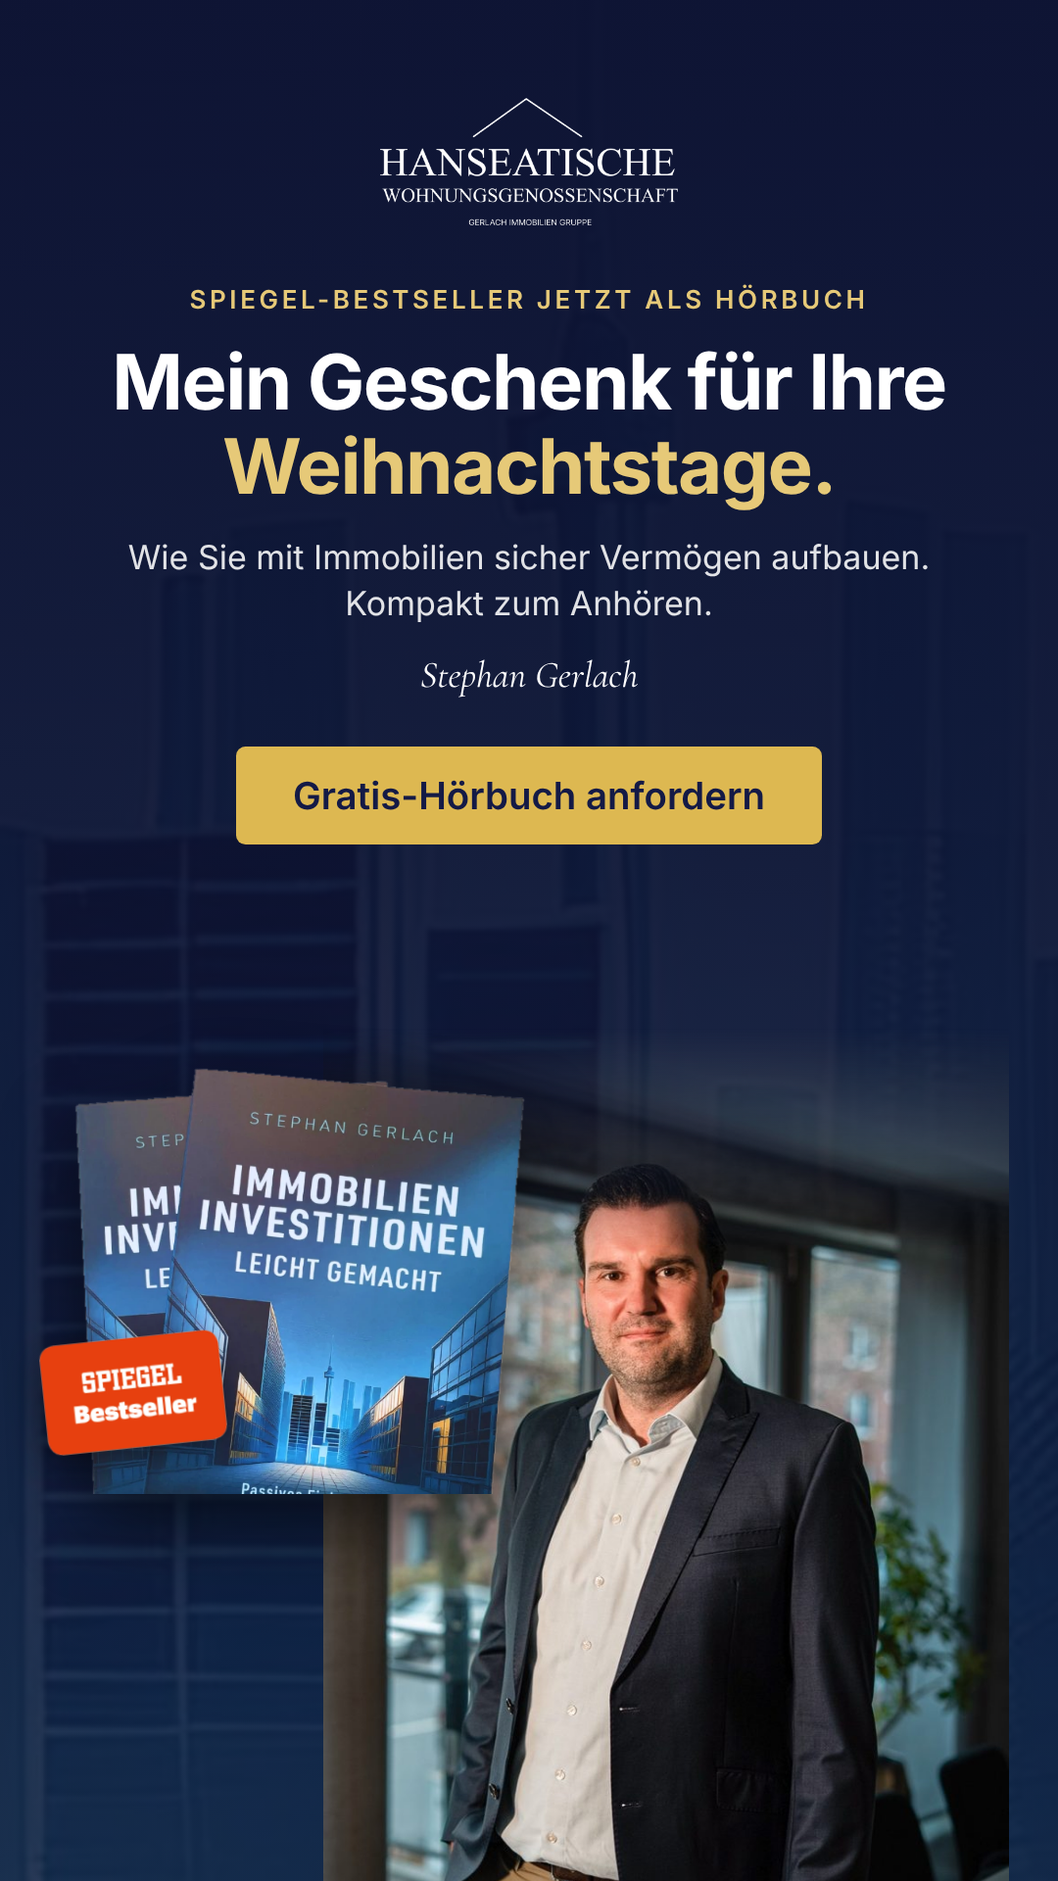
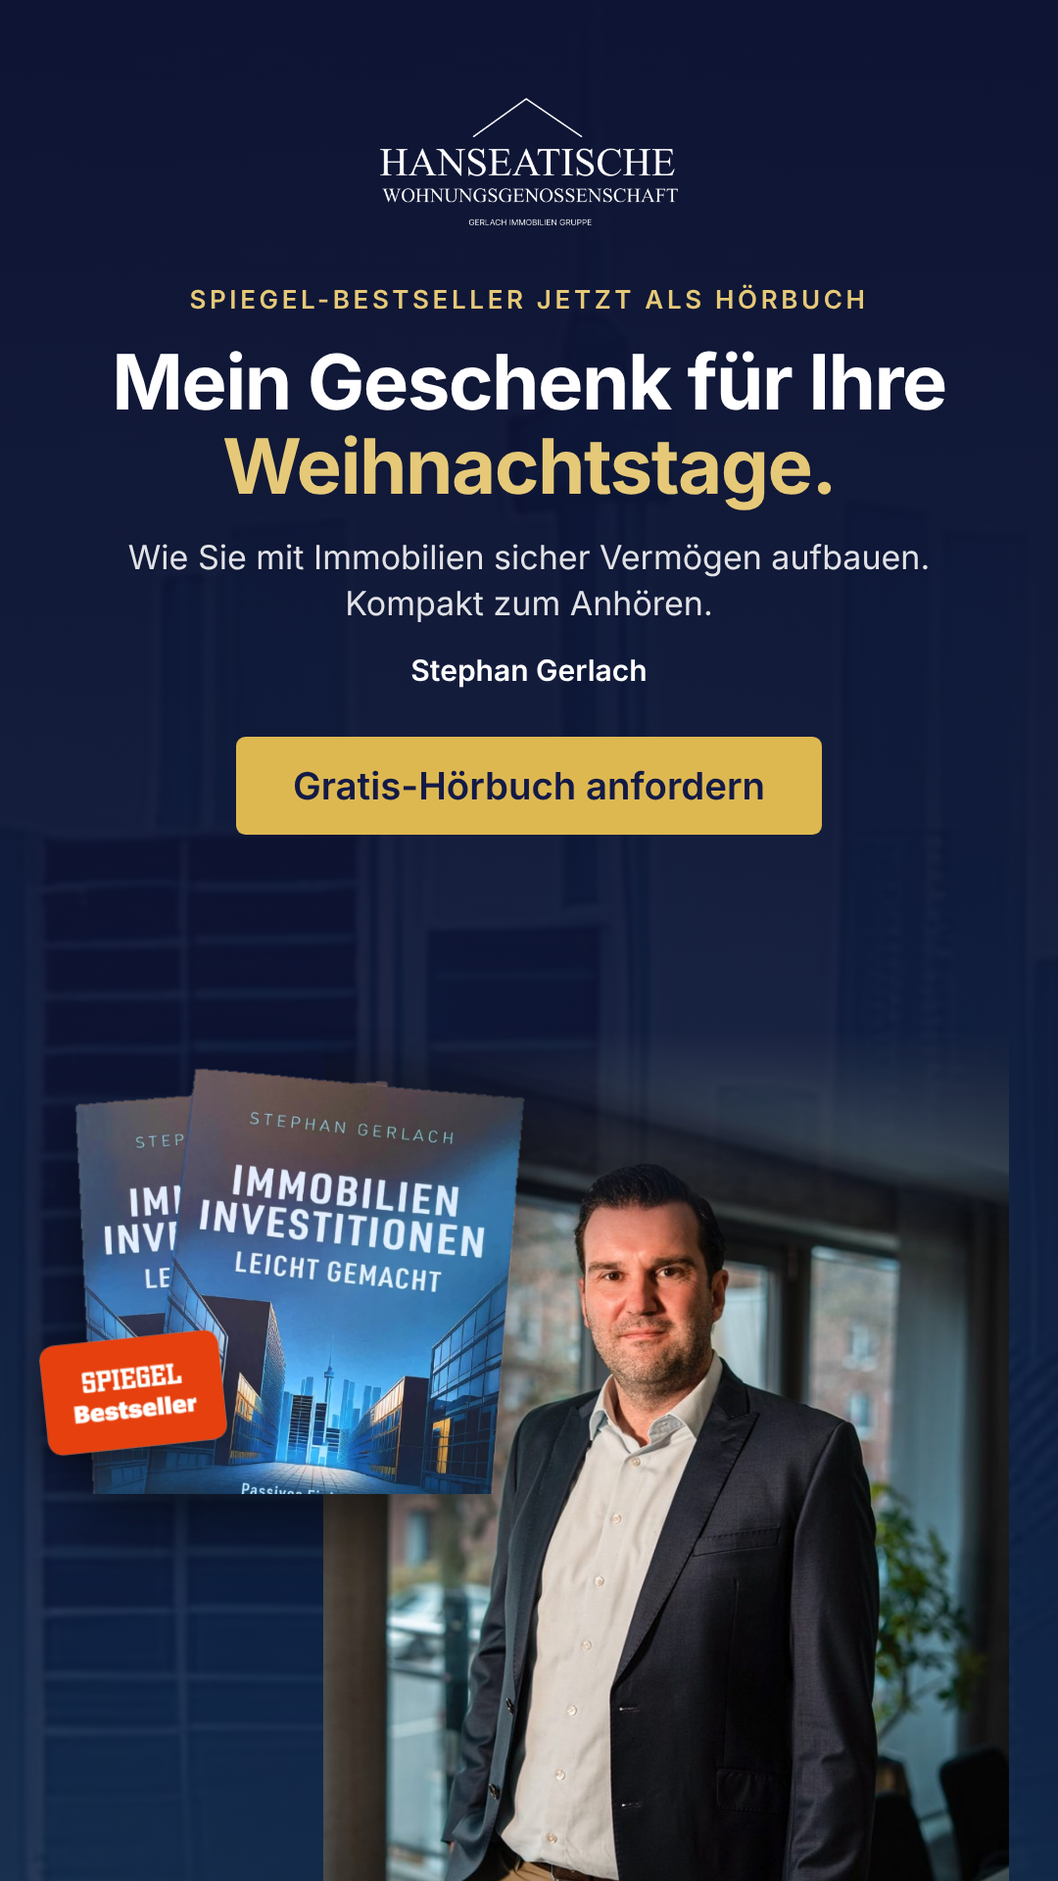
Hörbuch campaign: Inter everywhere
Numbers, the author quote, step counters, FAQ markers, the footer claim, the
0 € coin and Stephan's name in the ads now use Inter too; Cormorant is no
longer loaded.

Claude-Session: https://claude.ai/code/session_01MwbuZMrrPYKRN76czVZSnJ

Changed region(s): [[0.2139, 0.3438, 0.7639, 0.4688]]

diff --git a/sites/hwg-landing/hoerbuch-weihnachten/assets/campaign.css b/sites/hwg-landing/hoerbuch-weihnachten/assets/campaign.css
@@ -3,9 +3,6 @@
    so the page loads nothing from Google. */
 
 @font-face { font-family: "Inter"; src: url("inter-latin-wght-normal.woff2") format("woff2"); font-weight: 100 900; font-display: swap; }
-@font-face { font-family: "Cormorant Garamond"; src: url("cormorant-garamond-latin-500-normal.woff2") format("woff2"); font-weight: 500; font-display: swap; }
-@font-face { font-family: "Cormorant Garamond"; src: url("cormorant-garamond-latin-600-normal.woff2") format("woff2"); font-weight: 600; font-display: swap; }
-@font-face { font-family: "Cormorant Garamond"; src: url("cormorant-garamond-latin-500-italic.woff2") format("woff2"); font-weight: 500; font-style: italic; font-display: swap; }
 
 :root {
   --ink: #141a46;
@@ -26,7 +23,6 @@
   --line: #d2d4da;
   --white: #fff;
   --radius: 8px;
-  --serif: "Cormorant Garamond", "Times New Roman", Georgia, serif;
   --sans: "Inter", "Helvetica Neue", Arial, sans-serif;
 }
 
@@ -38,7 +34,6 @@ a { color: inherit; }
 :focus-visible { outline: 2px solid var(--gold); outline-offset: 3px; }
 
 .wrap { width: 100%; max-width: 1160px; margin: 0 auto; padding: 0 20px; }
-.serif { font-family: var(--serif); }
 .eyebrow { display: inline-flex; align-items: center; gap: 10px; font-size: 13px; font-weight: 600; letter-spacing: .14em; text-transform: uppercase; color: var(--gold-700); }
 h1, h2, h3 { font-family: var(--sans); font-weight: 700; line-height: 1.12; letter-spacing: -.02em; margin: 0; }
 h2 { font-size: clamp(28px, 3.4vw, 40px); }
@@ -51,7 +46,7 @@ h2 { font-size: clamp(28px, 3.4vw, 40px); }
 .logo img { width: auto; height: 56px; }
 .site-footer .logo img { height: 72px; }
 .wordmark { display: flex; flex-direction: column; text-decoration: none; line-height: 1.15; }
-.wordmark b { font-family: var(--serif); font-weight: 600; font-size: 20px; letter-spacing: .01em; }
+.wordmark b { font-family: var(--sans); font-weight: 700; font-size: 20px; letter-spacing: .01em; }
 .wordmark span { font-size: 11px; letter-spacing: .16em; text-transform: uppercase; color: var(--gold-400); }
 .header-note { font-size: 13px; color: rgba(255,255,255,.75); white-space: nowrap; }
 .header-note b { color: var(--gold-400); font-weight: 600; }
@@ -87,7 +82,7 @@ h2 { font-size: clamp(28px, 3.4vw, 40px); }
 .book-stack .book { width: 100%; height: auto; filter: drop-shadow(0 30px 36px rgba(0,0,0,.55)); }
 .book-stack .badge { position: absolute; left: -7%; bottom: 10%; width: 40%; height: auto; transform: rotate(-6deg); filter: drop-shadow(0 10px 18px rgba(0,0,0,.45)); }
 .book-stack .coin { position: absolute; right: -6%; top: -4%; width: 28%; aspect-ratio: 1; border-radius: 50%; display: flex; flex-direction: column; align-items: center; justify-content: center; background: var(--gold); color: var(--ink); transform: rotate(12deg); box-shadow: 0 8px 20px rgba(0,0,0,.35); }
-.book-stack .coin b { font-family: var(--serif); font-weight: 600; font-size: clamp(26px, 7vw, 38px); line-height: .9; }
+.book-stack .coin b { font-family: var(--sans); font-weight: 800; letter-spacing: -.02em; font-size: clamp(26px, 7vw, 38px); line-height: .9; }
 .book-stack .coin span { margin-top: 4px; font-size: clamp(9px, 2.2vw, 11px); font-weight: 700; letter-spacing: .14em; text-transform: uppercase; }
 
 /* Form card */
@@ -119,20 +114,20 @@ section { padding: 88px 0; }
 
 .learn { display: grid; grid-template-columns: repeat(3, 1fr); gap: 20px; }
 .learn article { background: var(--white); border: 1px solid var(--cream-line); border-radius: var(--radius); padding: 26px; }
-.learn .num { font-family: var(--serif); font-size: 40px; line-height: 1; color: var(--gold-600); }
+.learn .num { font-family: var(--sans); font-weight: 700; font-size: 32px; line-height: 1; color: var(--gold-600); }
 .learn h3 { font-size: 20px; margin: 12px 0 8px; }
 .learn p { margin: 0; color: var(--ink-2); font-size: 16px; }
 
 .author { display: grid; grid-template-columns: 320px 1fr; gap: 56px; align-items: center; }
 .author-photo { position: relative; }
 .author-photo img { border-radius: var(--radius); aspect-ratio: 1 / 1; height: auto; object-fit: cover; object-position: 50% 12%; width: 100%; }
-.author blockquote { margin: 26px 0; padding-left: 20px; border-left: 2px solid var(--gold); font-family: var(--serif); font-style: italic; font-size: 26px; line-height: 1.3; color: var(--ink); }
+.author blockquote { margin: 26px 0; padding-left: 20px; border-left: 2px solid var(--gold); font-family: var(--sans); font-style: normal; font-weight: 500; font-size: 21px; line-height: 1.45; color: var(--ink); }
 .seals { display: flex; flex-wrap: wrap; gap: 18px; align-items: center; margin-top: 26px; }
 .seals img { height: 86px; width: auto; }
 
 .steps { display: grid; grid-template-columns: repeat(3, 1fr); gap: 28px; counter-reset: s; }
 .steps li { list-style: none; position: relative; padding-top: 58px; }
-.steps li::before { counter-increment: s; content: counter(s); position: absolute; top: 0; left: 0; width: 42px; height: 42px; border-radius: 50%; display: grid; place-items: center; background: var(--panel); color: var(--gold-400); font-family: var(--serif); font-size: 22px; font-weight: 600; }
+.steps li::before { counter-increment: s; content: counter(s); position: absolute; top: 0; left: 0; width: 42px; height: 42px; border-radius: 50%; display: grid; place-items: center; background: var(--panel); color: var(--gold-400); font-family: var(--sans); font-size: 18px; font-weight: 700; }
 .steps h3 { font-size: 19px; margin-bottom: 6px; }
 .steps p { margin: 0; color: var(--ink-2); }
 .steps { padding: 0; margin: 0; }
@@ -147,7 +142,7 @@ section { padding: 88px 0; }
 .faq details { background: var(--white); border: 1px solid var(--line); border-radius: var(--radius); padding: 18px 22px; }
 .faq summary { cursor: pointer; font-weight: 600; list-style: none; display: flex; justify-content: space-between; gap: 16px; }
 .faq summary::-webkit-details-marker { display: none; }
-.faq summary::after { content: "+"; font-family: var(--serif); font-size: 26px; line-height: 1; color: var(--gold-600); }
+.faq summary::after { content: "+"; font-family: var(--sans); font-weight: 400; font-size: 24px; line-height: 1; color: var(--gold-600); }
 .faq details[open] summary::after { content: "–"; }
 .faq p { margin: 12px 0 0; color: var(--ink-2); }
 
@@ -165,7 +160,7 @@ section { padding: 88px 0; }
 .footer-cols a { text-decoration: none; }
 .footer-bottom { display: flex; flex-wrap: wrap; justify-content: space-between; gap: 16px; padding-top: 22px; }
 .footer-bottom nav { display: flex; gap: 22px; }
-.footer-bottom .claim { font-family: var(--serif); font-style: italic; font-size: 17px; color: rgba(255,255,255,.9); }
+.footer-bottom .claim { font-family: var(--sans); font-weight: 600; font-size: 15px; color: rgba(255,255,255,.9); }
 .disclaimer { margin-top: 18px; font-size: 12px; color: rgba(255,255,255,.5); }
 
 /* Sticky mobile CTA */

diff --git a/sites/hwg-landing/hoerbuch-weihnachten/ads/src/preview/a-geschenk-1080x1350.html b/sites/hwg-landing/hoerbuch-weihnachten/ads/src/preview/a-geschenk-1080x1350.html
@@ -34,7 +34,7 @@ body{margin:0}
       <img src="../../../assets/buch-mockup.png" alt="Buch „Immobilien-Investitionen leicht gemacht“ von Stephan Gerlach" style="display: block; width: 520px; height: auto; filter: drop-shadow(0 30px 36px rgba(0,0,0,0.55));">
     <img src="../../../assets/spiegel-bestseller.png" alt="SPIEGEL-Bestseller" style="position: absolute; left: -36px; bottom: 52px; width: 208px; height: auto; transform: rotate(-6deg); filter: drop-shadow(0 10px 18px rgba(0,0,0,0.45));">
       <div style="position: absolute; right: -60px; top: -40px; width: 140px; height: 140px; border-radius: 50%; background: var(--gig-gold); color: var(--gig-navy); display: flex; flex-direction: column; align-items: center; justify-content: center; transform: rotate(12deg); box-shadow: 0 8px 20px rgba(0,0,0,0.35);">
-      <span style="font-family: var(--font-display); font-weight: 600; font-size: 50px; line-height: 0.9;">0 €</span>
+      <span style="font-family: var(--font-ui); font-weight: 800; font-size: 41px; line-height: 0.9; letter-spacing: -0.02em;">0 €</span>
       <span style="margin-top: 4px; font-size: 13px; font-weight: 700; letter-spacing: 0.14em; text-transform: uppercase;">Gratis</span>
     </div>
     </div>

diff --git a/sites/hwg-landing/hoerbuch-weihnachten/ads/src/preview/a-geschenk-1080x1920.html b/sites/hwg-landing/hoerbuch-weihnachten/ads/src/preview/a-geschenk-1080x1920.html
@@ -33,7 +33,7 @@ body{margin:0}
       <img src="../../../assets/buch-mockup.png" alt="Buch „Immobilien-Investitionen leicht gemacht“ von Stephan Gerlach" style="display: block; width: 640px; height: auto; filter: drop-shadow(0 30px 36px rgba(0,0,0,0.55));">
     <img src="../../../assets/spiegel-bestseller.png" alt="SPIEGEL-Bestseller" style="position: absolute; left: -45px; bottom: 64px; width: 256px; height: auto; transform: rotate(-6deg); filter: drop-shadow(0 10px 18px rgba(0,0,0,0.45));">
       <div style="position: absolute; right: -60px; top: -50px; width: 170px; height: 170px; border-radius: 50%; background: var(--gig-gold); color: var(--gig-navy); display: flex; flex-direction: column; align-items: center; justify-content: center; transform: rotate(12deg); box-shadow: 0 8px 20px rgba(0,0,0,0.35);">
-      <span style="font-family: var(--font-display); font-weight: 600; font-size: 61px; line-height: 0.9;">0 €</span>
+      <span style="font-family: var(--font-ui); font-weight: 800; font-size: 50px; line-height: 0.9; letter-spacing: -0.02em;">0 €</span>
       <span style="margin-top: 4px; font-size: 16px; font-weight: 700; letter-spacing: 0.14em; text-transform: uppercase;">Gratis</span>
     </div>
     </div>

diff --git a/sites/hwg-landing/hoerbuch-weihnachten/ads/src/preview/c-zwischen-den-jahren-1080x1350.html b/sites/hwg-landing/hoerbuch-weihnachten/ads/src/preview/c-zwischen-den-jahren-1080x1350.html
@@ -38,7 +38,7 @@ body{margin:0}
       <img src="../../../assets/buch-mockup.png" alt="Buch „Immobilien-Investitionen leicht gemacht“ von Stephan Gerlach" style="display: block; width: 520px; height: auto; filter: drop-shadow(0 30px 36px rgba(0,0,0,0.55));">
     <img src="../../../assets/spiegel-bestseller.png" alt="SPIEGEL-Bestseller" style="position: absolute; left: -36px; bottom: 52px; width: 208px; height: auto; transform: rotate(-6deg); filter: drop-shadow(0 10px 18px rgba(0,0,0,0.45));">
       <div style="position: absolute; right: -60px; top: -40px; width: 140px; height: 140px; border-radius: 50%; background: var(--gig-gold); color: var(--gig-navy); display: flex; flex-direction: column; align-items: center; justify-content: center; transform: rotate(12deg); box-shadow: 0 8px 20px rgba(0,0,0,0.35);">
-      <span style="font-family: var(--font-display); font-weight: 600; font-size: 50px; line-height: 0.9;">0 €</span>
+      <span style="font-family: var(--font-ui); font-weight: 800; font-size: 41px; line-height: 0.9; letter-spacing: -0.02em;">0 €</span>
       <span style="margin-top: 4px; font-size: 13px; font-weight: 700; letter-spacing: 0.14em; text-transform: uppercase;">Gratis</span>
     </div>
     </div>

diff --git a/sites/hwg-landing/hoerbuch-weihnachten/ads/src/preview/c-zwischen-den-jahren-1080x1920.html b/sites/hwg-landing/hoerbuch-weihnachten/ads/src/preview/c-zwischen-den-jahren-1080x1920.html
@@ -37,7 +37,7 @@ body{margin:0}
       <img src="../../../assets/buch-mockup.png" alt="Buch „Immobilien-Investitionen leicht gemacht“ von Stephan Gerlach" style="display: block; width: 640px; height: auto; filter: drop-shadow(0 30px 36px rgba(0,0,0,0.55));">
     <img src="../../../assets/spiegel-bestseller.png" alt="SPIEGEL-Bestseller" style="position: absolute; left: -45px; bottom: 64px; width: 256px; height: auto; transform: rotate(-6deg); filter: drop-shadow(0 10px 18px rgba(0,0,0,0.45));">
       <div style="position: absolute; right: -60px; top: -50px; width: 170px; height: 170px; border-radius: 50%; background: var(--gig-gold); color: var(--gig-navy); display: flex; flex-direction: column; align-items: center; justify-content: center; transform: rotate(12deg); box-shadow: 0 8px 20px rgba(0,0,0,0.35);">
-      <span style="font-family: var(--font-display); font-weight: 600; font-size: 61px; line-height: 0.9;">0 €</span>
+      <span style="font-family: var(--font-ui); font-weight: 800; font-size: 50px; line-height: 0.9; letter-spacing: -0.02em;">0 €</span>
       <span style="margin-top: 4px; font-size: 16px; font-weight: 700; letter-spacing: 0.14em; text-transform: uppercase;">Gratis</span>
     </div>
     </div>

diff --git a/sites/hwg-landing/hoerbuch-weihnachten/ads/src/preview/a-geschenk-1080x1080.html b/sites/hwg-landing/hoerbuch-weihnachten/ads/src/preview/a-geschenk-1080x1080.html
@@ -36,7 +36,7 @@ body{margin:0}
     <img src="../../../assets/buch-mockup.png" alt="Buch „Immobilien-Investitionen leicht gemacht“ von Stephan Gerlach" style="display: block; width: 400px; height: auto; filter: drop-shadow(0 30px 36px rgba(0,0,0,0.55));">
     <img src="../../../assets/spiegel-bestseller.png" alt="SPIEGEL-Bestseller" style="position: absolute; left: -28px; bottom: 40px; width: 160px; height: auto; transform: rotate(-6deg); filter: drop-shadow(0 10px 18px rgba(0,0,0,0.45));">
     <div style="position: absolute; right: -10px; top: -70px; width: 140px; height: 140px; border-radius: 50%; background: var(--gig-gold); color: var(--gig-navy); display: flex; flex-direction: column; align-items: center; justify-content: center; transform: rotate(12deg); box-shadow: 0 8px 20px rgba(0,0,0,0.35);">
-      <span style="font-family: var(--font-display); font-weight: 600; font-size: 50px; line-height: 0.9;">0 €</span>
+      <span style="font-family: var(--font-ui); font-weight: 800; font-size: 41px; line-height: 0.9; letter-spacing: -0.02em;">0 €</span>
       <span style="margin-top: 4px; font-size: 13px; font-weight: 700; letter-spacing: 0.14em; text-transform: uppercase;">Gratis</span>
     </div>
   </div>

diff --git a/sites/hwg-landing/hoerbuch-weihnachten/ads/src/preview/a-geschenk-1200x674.html b/sites/hwg-landing/hoerbuch-weihnachten/ads/src/preview/a-geschenk-1200x674.html
@@ -36,7 +36,7 @@ body{margin:0}
     <img src="../../../assets/buch-mockup.png" alt="Buch „Immobilien-Investitionen leicht gemacht“ von Stephan Gerlach" style="display: block; width: 420px; height: auto; filter: drop-shadow(0 30px 36px rgba(0,0,0,0.55));">
     <img src="../../../assets/spiegel-bestseller.png" alt="SPIEGEL-Bestseller" style="position: absolute; left: -29px; bottom: 42px; width: 168px; height: auto; transform: rotate(-6deg); filter: drop-shadow(0 10px 18px rgba(0,0,0,0.45));">
     <div style="position: absolute; right: -30px; top: -50px; width: 110px; height: 110px; border-radius: 50%; background: var(--gig-gold); color: var(--gig-navy); display: flex; flex-direction: column; align-items: center; justify-content: center; transform: rotate(12deg); box-shadow: 0 8px 20px rgba(0,0,0,0.35);">
-      <span style="font-family: var(--font-display); font-weight: 600; font-size: 40px; line-height: 0.9;">0 €</span>
+      <span style="font-family: var(--font-ui); font-weight: 800; font-size: 33px; line-height: 0.9; letter-spacing: -0.02em;">0 €</span>
       <span style="margin-top: 4px; font-size: 10px; font-weight: 700; letter-spacing: 0.14em; text-transform: uppercase;">Gratis</span>
     </div>
   </div>

diff --git a/sites/hwg-landing/hoerbuch-weihnachten/ads/src/preview/c-zwischen-den-jahren-1080x1080.html b/sites/hwg-landing/hoerbuch-weihnachten/ads/src/preview/c-zwischen-den-jahren-1080x1080.html
@@ -40,7 +40,7 @@ body{margin:0}
     <img src="../../../assets/buch-mockup.png" alt="Buch „Immobilien-Investitionen leicht gemacht“ von Stephan Gerlach" style="display: block; width: 400px; height: auto; filter: drop-shadow(0 30px 36px rgba(0,0,0,0.55));">
     <img src="../../../assets/spiegel-bestseller.png" alt="SPIEGEL-Bestseller" style="position: absolute; left: -28px; bottom: 40px; width: 160px; height: auto; transform: rotate(-6deg); filter: drop-shadow(0 10px 18px rgba(0,0,0,0.45));">
     <div style="position: absolute; right: -10px; top: -70px; width: 140px; height: 140px; border-radius: 50%; background: var(--gig-gold); color: var(--gig-navy); display: flex; flex-direction: column; align-items: center; justify-content: center; transform: rotate(12deg); box-shadow: 0 8px 20px rgba(0,0,0,0.35);">
-      <span style="font-family: var(--font-display); font-weight: 600; font-size: 50px; line-height: 0.9;">0 €</span>
+      <span style="font-family: var(--font-ui); font-weight: 800; font-size: 41px; line-height: 0.9; letter-spacing: -0.02em;">0 €</span>
       <span style="margin-top: 4px; font-size: 13px; font-weight: 700; letter-spacing: 0.14em; text-transform: uppercase;">Gratis</span>
     </div>
   </div>

diff --git a/sites/hwg-landing/hoerbuch-weihnachten/ads/src/preview/c-zwischen-den-jahren-1200x674.html b/sites/hwg-landing/hoerbuch-weihnachten/ads/src/preview/c-zwischen-den-jahren-1200x674.html
@@ -40,7 +40,7 @@ body{margin:0}
     <img src="../../../assets/buch-mockup.png" alt="Buch „Immobilien-Investitionen leicht gemacht“ von Stephan Gerlach" style="display: block; width: 420px; height: auto; filter: drop-shadow(0 30px 36px rgba(0,0,0,0.55));">
     <img src="../../../assets/spiegel-bestseller.png" alt="SPIEGEL-Bestseller" style="position: absolute; left: -29px; bottom: 42px; width: 168px; height: auto; transform: rotate(-6deg); filter: drop-shadow(0 10px 18px rgba(0,0,0,0.45));">
     <div style="position: absolute; right: -30px; top: -50px; width: 110px; height: 110px; border-radius: 50%; background: var(--gig-gold); color: var(--gig-navy); display: flex; flex-direction: column; align-items: center; justify-content: center; transform: rotate(12deg); box-shadow: 0 8px 20px rgba(0,0,0,0.35);">
-      <span style="font-family: var(--font-display); font-weight: 600; font-size: 40px; line-height: 0.9;">0 €</span>
+      <span style="font-family: var(--font-ui); font-weight: 800; font-size: 33px; line-height: 0.9; letter-spacing: -0.02em;">0 €</span>
       <span style="margin-top: 4px; font-size: 10px; font-weight: 700; letter-spacing: 0.14em; text-transform: uppercase;">Gratis</span>
     </div>
   </div>

diff --git a/sites/hwg-landing/hoerbuch-weihnachten/ads/src/preview/b-autor-1080x1350.html b/sites/hwg-landing/hoerbuch-weihnachten/ads/src/preview/b-autor-1080x1350.html
@@ -27,7 +27,7 @@ body{margin:0}
     <span style="font-size: 21px; font-weight: 600; letter-spacing: 0.14em; text-transform: uppercase; color: var(--gold-400);">SPIEGEL-Bestseller jetzt als Hörbuch</span>
     <h1 style="margin: 0; font-family: var(--font-ui); font-weight: 700; font-size: 62px; line-height: 1.1; letter-spacing: -0.02em;">Mein Geschenk für Ihre <em style="font-style: normal; color: var(--gold-400);">Weihnachtstage.</em></h1>
     <p style="margin: 0; font-size: 27px; line-height: 1.4; color: rgba(255,255,255,0.88);">Wie Sie mit Immobilien sicher Vermögen aufbauen. Kompakt zum Anhören.</p>
-    <span style="font-family: var(--font-display); font-style: italic; font-size: 32px;">Stephan Gerlach</span>
+    <span style="font-family: var(--font-ui); font-weight: 600; font-size: 26px;">Stephan Gerlach</span>
   </div>
   <div style="position: absolute; left: 70px; top: 740px;">
     <img src="../../../assets/buch-mockup.png" alt="Buch „Immobilien-Investitionen leicht gemacht“ von Stephan Gerlach" style="display: block; width: 400px; height: auto; filter: drop-shadow(0 30px 36px rgba(0,0,0,0.55));">

diff --git a/sites/hwg-landing/hoerbuch-weihnachten/ads/src/preview/b-autor-1080x1080.html b/sites/hwg-landing/hoerbuch-weihnachten/ads/src/preview/b-autor-1080x1080.html
@@ -27,7 +27,7 @@ body{margin:0}
     <span style="font-size: 20px; font-weight: 600; letter-spacing: 0.14em; text-transform: uppercase; color: var(--gold-400);">SPIEGEL-Bestseller jetzt als Hörbuch</span>
     <h1 style="margin: 0; font-family: var(--font-ui); font-weight: 700; font-size: 56px; line-height: 1.1; letter-spacing: -0.02em;">Mein Geschenk für Ihre <em style="font-style: normal; color: var(--gold-400);">Weihnachtstage.</em></h1>
     <p style="margin: 0; font-size: 26px; line-height: 1.4; color: rgba(255,255,255,0.88);">Wie Sie mit Immobilien sicher Vermögen aufbauen. Kompakt zum Anhören.</p>
-    <span style="font-family: var(--font-display); font-style: italic; font-size: 32px;">Stephan Gerlach</span>
+    <span style="font-family: var(--font-ui); font-weight: 600; font-size: 26px;">Stephan Gerlach</span>
     <div style="zoom: 1.8; align-self: flex-start;">
       <span class="pbtn">Gratis-Hörbuch anfordern</span>
     </div>

diff --git a/sites/hwg-landing/hoerbuch-weihnachten/ads/src/preview/b-autor-1200x674.html b/sites/hwg-landing/hoerbuch-weihnachten/ads/src/preview/b-autor-1200x674.html
@@ -27,7 +27,7 @@ body{margin:0}
     <span style="font-size: 15px; font-weight: 600; letter-spacing: 0.14em; text-transform: uppercase; color: var(--gold-400);">SPIEGEL-Bestseller jetzt als Hörbuch</span>
     <h1 style="margin: 0; font-family: var(--font-ui); font-weight: 700; font-size: 42px; line-height: 1.1; letter-spacing: -0.02em;">Mein Geschenk für Ihre <em style="font-style: normal; color: var(--gold-400);">Weihnachtstage.</em></h1>
     <p style="margin: 0; font-size: 20px; line-height: 1.4; color: rgba(255,255,255,0.88);">Wie Sie mit Immobilien sicher Vermögen aufbauen. Kompakt zum Anhören.</p>
-    <span style="font-family: var(--font-display); font-style: italic; font-size: 24px;">Stephan Gerlach</span>
+    <span style="font-family: var(--font-ui); font-weight: 600; font-size: 20px;">Stephan Gerlach</span>
     <div style="zoom: 1.4; align-self: flex-start;">
       <span class="pbtn">Gratis-Hörbuch anfordern</span>
     </div>
